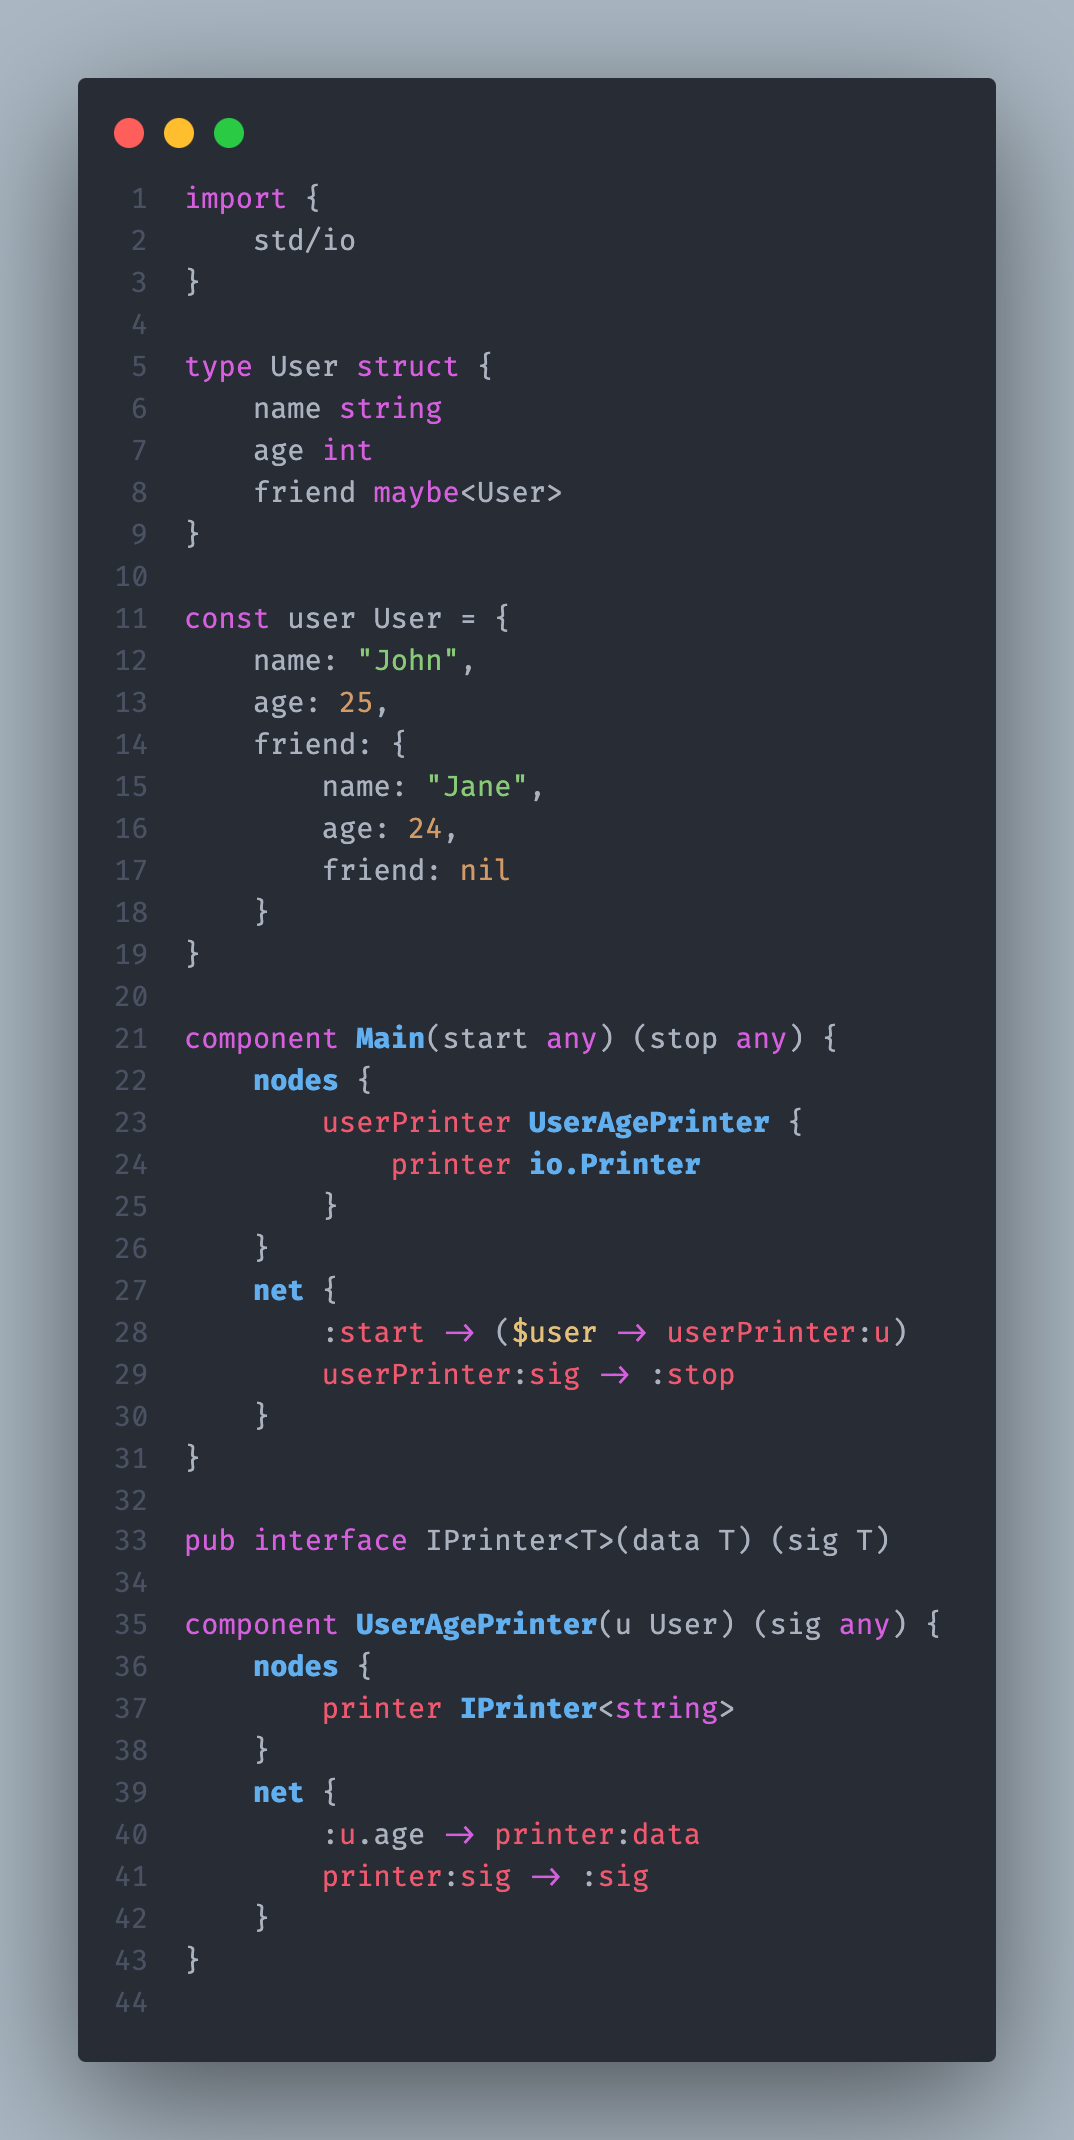
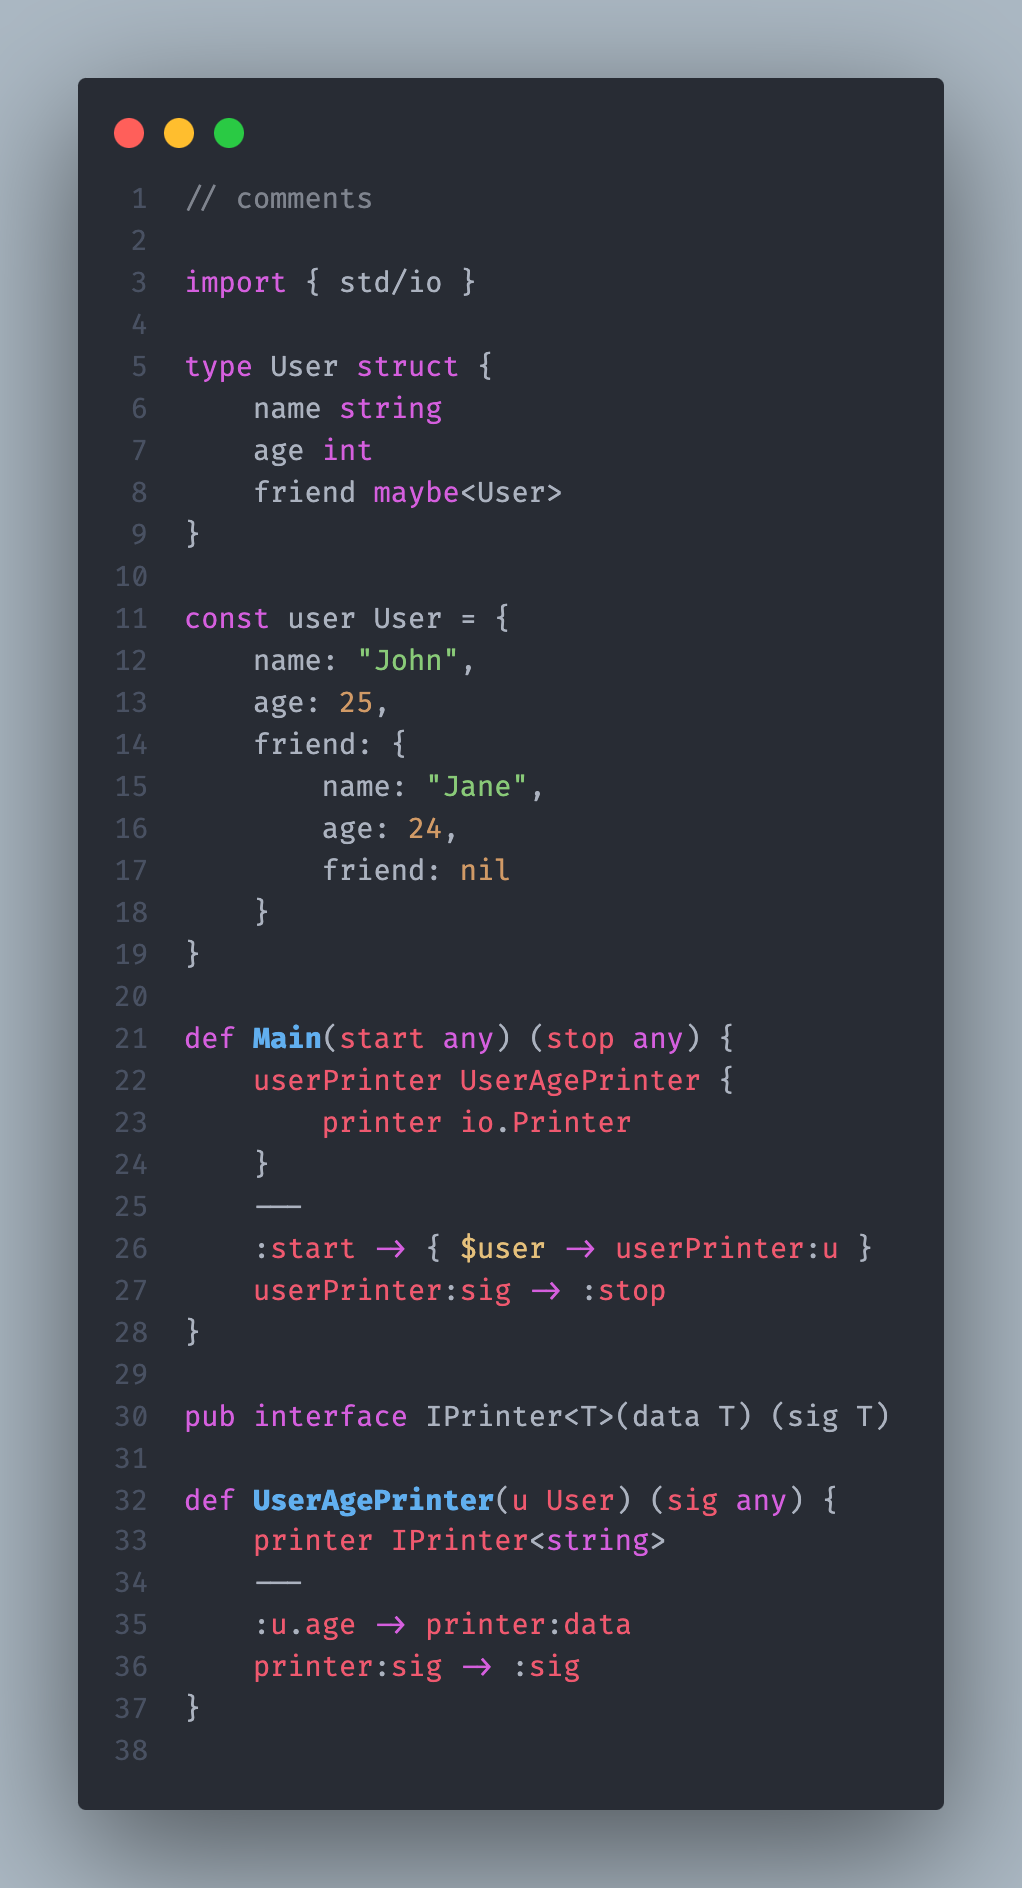
feat(0.7): flow -> def

diff --git a/README.md b/README.md
@@ -30,11 +30,20 @@ See [./Contributing.md](Contributing.md)
 
 ## Release Notes
 
+### 0.7.0
+
+- LSP improvements
+  - Sending errors to VSCode "problems" panel
+  - Support for TCP in debug-mode (for extension developers)
+- Updated syntax highlighting to mach latest changes in compiler
+  - `flow` keyword was replaced with `def`
+- Internal Changes (minor refactoring)
+
 ### 0.6.0
 
 - Updated syntax highlighting to mach latest changes in compiler
-    - Replaced `component` keyword with `flow`
-    - Removed all _group forms_ for entity declarasions
+  - Replaced `component` keyword with `flow`
+  - Removed all _group forms_ for entity declarasions
 
 ### 0.5.0
 
